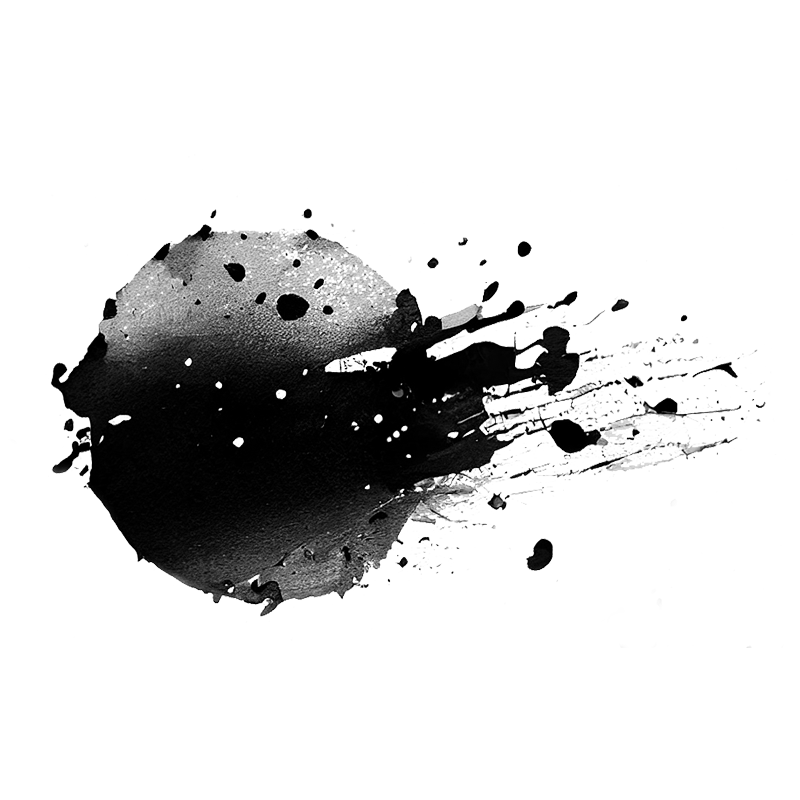
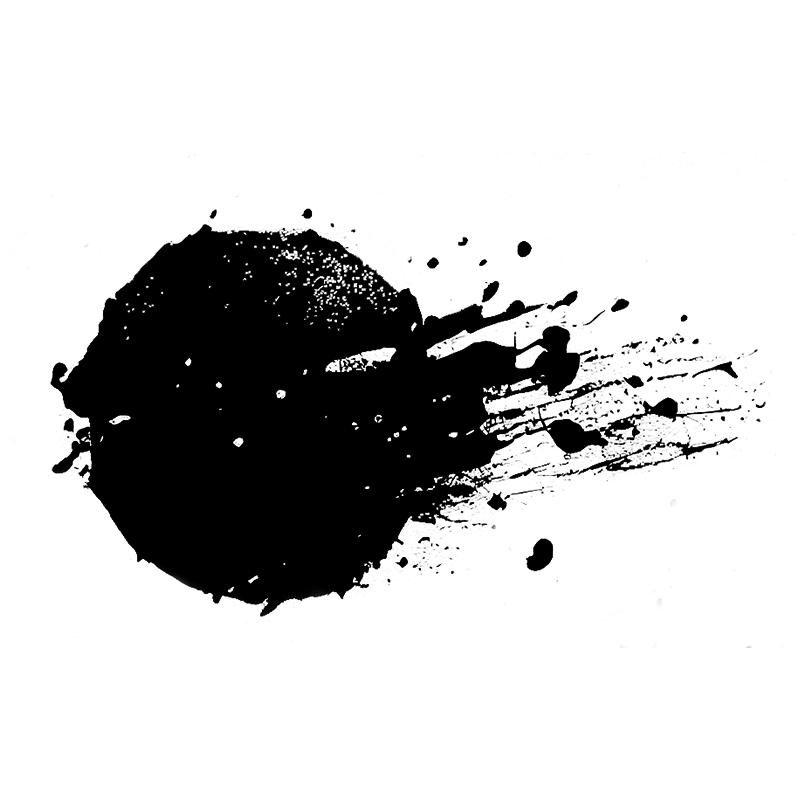
feat: 添加首页banner文字反色效果

diff --git a/src/views/home/components/Banner.vue b/src/views/home/components/Banner.vue
@@ -11,47 +11,70 @@ const startBtn = () => {
 </script>
 
 <template>
-  <div class="f-c-c w-full h-screen">
-    <div class="content w-60% pr-20">
+  <div class="banner f-c-c w-full h-screen">
+    <div class="content">
       <div class="title text-8xl font-600 my-4">
         {{ $t('context.title') }}
       </div>
-      <p class="text-lg my-8">
+      <div class="w-60% text-lg my-8">
         {{ $t('context.subtitle') }}
-      </p>
+      </div>
       <button class="btn text-lg px-10" @click="startBtn()">
         {{ $t('context.start') }}
       </button>
-      <div class="mask">
+      <div class="ink">
         <!-- <img src="src/assets/ink.png" alt=""> -->
         <img v-show="!isDark" src="src/assets/ink-black.png" alt="">
         <img v-show="isDark" src="src/assets/ink-white.png" alt="">
       </div>
     </div>
+    <div class="content mask">
+      <div class="title text-8xl font-600 my-4">
+        {{ $t('context.title') }}
+      </div>
+      <div class="w-60% text-lg my-8">
+        {{ $t('context.subtitle') }}
+      </div>
+      <button class="btn text-lg px-10" @click="startBtn()">
+        {{ $t('context.start') }}
+      </button>
+    </div>
   </div>
 </template>
 
 <style scoped lang="less">
-.content {
+.banner {
   position: relative;
+}
+.content {
+  width: 60%;
+  padding-right: 50px;
+  position: absolute;
+  left: 50%;
+  top: 50%;
+  transform: translate(-50%, -50%);
 }
 
 .title {
   font-family: Montserrat;
 }
 
-.mask {
+.ink {
   position: absolute;
-  right: -50px;
+  right: 0px;
   top: 50%;
   transform: translateY(-50%);
   z-index: -1;
+}
 
-  img {
-    -webkit-mask-image: linear-gradient(#000, #000);;
-    mask-image: linear-gradient(#000, #000);;
-    mask-repeat: no-repeat;
-    mask-position: center;
-  }
+.content.mask {
+  color: @text-dark;
+
+  mask-image: url('@/assets/ink-mask.png');
+  mask-repeat: no-repeat;
+  mask-position: center;
+  -webkit-mask-image: url('@/assets/ink-mask.png');
+  -webkit-mask-repeat: no-repeat;
+  -webkit-mask-position: center right;
 }
 </style>
